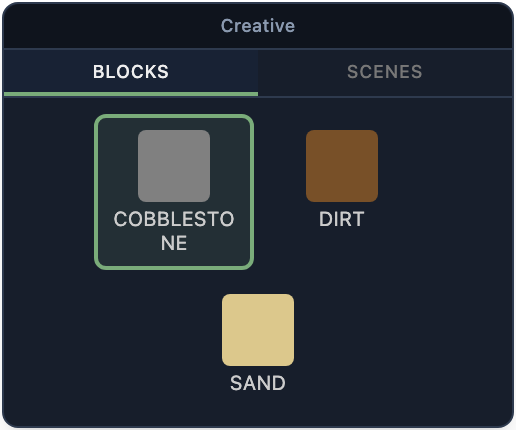
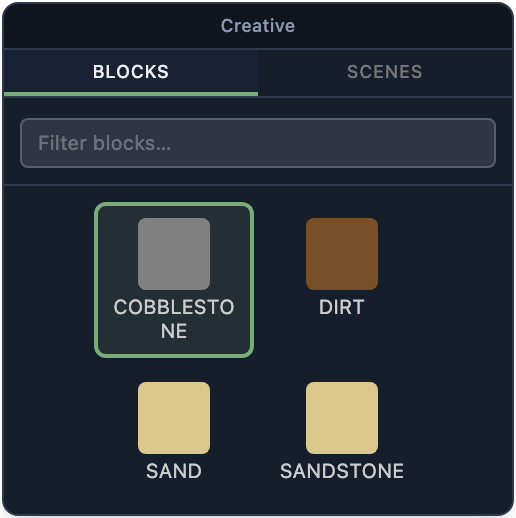
feat(webapp): filter input for the creative-mode block palette
Adds a text field above the Blocks tab of CreativeBlockPanel that filters
buildable items by name, with an empty-state message. New Storybook stories
cover the filtered and no-match cases.

diff --git a/app/webApp/ts-src/game/components/CreativeBlockPanel.tsx b/app/webApp/ts-src/game/components/CreativeBlockPanel.tsx
@@ -46,6 +46,7 @@ interface Props {
 export function CreativeBlockPanel({ visible, selectedItem, onSelectItem, selectedSceneId, onSelectScene }: Props) {
   const [pos, setPos] = useState(loadPanelPos);
   const [tab, setTab] = useState<CreativeTab>("blocks");
+  const [filter, setFilter] = useState("");
   const dragStateRef = useRef<{ startX: number; startY: number; startTop: number; startLeft: number } | null>(null);
   const defsReady = useBlockDefsReady();
   const getPreview = useBlockPreviews();
@@ -88,9 +89,11 @@ export function CreativeBlockPanel({ visible, selectedItem, onSelectItem, select
   const blocks: BlockEntry[] = (window.mcState.codexBlocks ?? []).map(
     (b: Omit<BlockEntry, "ordinal">, i: number) => ({ ...b, ordinal: i }) as BlockEntry,
   );
+  const query = filter.trim().toLowerCase();
   const items: ItemEntry[] = Object.entries(window.mcState.codexItems ?? {})
     .map(([name, info]: [string, unknown]) => ({ name, ...(info as Omit<ItemEntry, "name">) }))
     .filter((it: ItemEntry) => it.buildable)
+    .filter((it: ItemEntry) => !query || it.name.toLowerCase().includes(query))
     .sort((a: ItemEntry, b: ItemEntry) => a.name.localeCompare(b.name));
   const scenes: CreativeScene[] = [...(window.mcState.scenes ?? [])].sort((a, b) => a.name.localeCompare(b.name));
 
@@ -148,55 +151,70 @@ export function CreativeBlockPanel({ visible, selectedItem, onSelectItem, select
           ))}
         </div>
       ) : (
-        <div className="flex flex-wrap gap-1 p-2 overflow-y-auto max-h-[70vh] justify-center">
-          {items.map((item) => {
-            const linkedBlock = item.placesBlock ? blocks.find((b) => b.name === item.placesBlock) : null;
-            const preview = linkedBlock ? getPreview(linkedBlock.ordinal) : null;
-            return (
-              <CodexCard
-                key={item.name}
-                selected={selectedItem === item.name}
-                onClick={() => onSelectItem(item.name)}
-                title={item.name}
-                label={item.name.replace(/_/g, " ")}
-                width={80}
-                padding="6px 4px"
-                gap={2}
-                labelFontSize={10}
-                thumbnail={
-                  preview ? (
-                    <img
-                      alt="preview"
-                      src={preview}
-                      width={48}
-                      height={48}
-                      style={{ imageRendering: "pixelated", display: "block" }}
-                    />
-                  ) : linkedBlock && defsReady ? (
-                    <CssBlockCube ordinal={linkedBlock.ordinal} size={36} />
-                  ) : (
-                    <div
-                      style={{
-                        width: 36,
-                        height: 36,
-                        borderRadius: 4,
-                        background: linkedBlock
-                          ? `rgb(${linkedBlock.minimapColor[0]},${linkedBlock.minimapColor[1]},${linkedBlock.minimapColor[2]})`
-                          : "#6a5acd",
-                        display: "flex",
-                        alignItems: "center",
-                        justifyContent: "center",
-                        fontSize: 18,
-                      }}
-                    >
-                      {!linkedBlock ? "✦" : ""}
-                    </div>
-                  )
-                }
-              />
-            );
-          })}
-        </div>
+        <>
+          <div className="shrink-0 border-b border-[#2E3A4E] p-2">
+            <input
+              type="text"
+              placeholder="Filter blocks…"
+              value={filter}
+              onChange={(e) => setFilter(e.target.value)}
+              onMouseDown={(e) => e.stopPropagation()}
+              className="w-full rounded border border-white/20 bg-white/10 px-2 py-1 text-[10px] text-white placeholder:text-white/30 focus:border-white/50 focus:outline-none"
+            />
+          </div>
+          <div className="flex flex-wrap gap-1 p-2 overflow-y-auto max-h-[70vh] justify-center">
+            {items.length === 0 && (
+              <span className="text-[10px] text-[#666] px-1 py-2 text-center">No block matches</span>
+            )}
+            {items.map((item) => {
+              const linkedBlock = item.placesBlock ? blocks.find((b) => b.name === item.placesBlock) : null;
+              const preview = linkedBlock ? getPreview(linkedBlock.ordinal) : null;
+              return (
+                <CodexCard
+                  key={item.name}
+                  selected={selectedItem === item.name}
+                  onClick={() => onSelectItem(item.name)}
+                  title={item.name}
+                  label={item.name.replace(/_/g, " ")}
+                  width={80}
+                  padding="6px 4px"
+                  gap={2}
+                  labelFontSize={10}
+                  thumbnail={
+                    preview ? (
+                      <img
+                        alt="preview"
+                        src={preview}
+                        width={48}
+                        height={48}
+                        style={{ imageRendering: "pixelated", display: "block" }}
+                      />
+                    ) : linkedBlock && defsReady ? (
+                      <CssBlockCube ordinal={linkedBlock.ordinal} size={36} />
+                    ) : (
+                      <div
+                        style={{
+                          width: 36,
+                          height: 36,
+                          borderRadius: 4,
+                          background: linkedBlock
+                            ? `rgb(${linkedBlock.minimapColor[0]},${linkedBlock.minimapColor[1]},${linkedBlock.minimapColor[2]})`
+                            : "#6a5acd",
+                          display: "flex",
+                          alignItems: "center",
+                          justifyContent: "center",
+                          fontSize: 18,
+                        }}
+                      >
+                        {!linkedBlock ? "✦" : ""}
+                      </div>
+                    )
+                  }
+                />
+              );
+            })}
+          </div>
+        </>
       )}
     </div>
   );

diff --git a/app/webApp/ts-src/.stories/game/window/CreativeBlockPanel.stories.tsx b/app/webApp/ts-src/.stories/game/window/CreativeBlockPanel.stories.tsx
@@ -1,5 +1,6 @@
 import { useState } from "react";
 import type { Meta, StoryObj } from "@storybook/react";
+import { expect, userEvent, within } from "@storybook/test";
 import { CreativeBlockPanel } from "../../../game/components/CreativeBlockPanel";
 import { stubMcState } from "../../_support/mcState";
 
@@ -13,6 +14,7 @@ const codexItems = {
   COBBLESTONE: { buildable: true, placesBlock: "STONE" },
   DIRT: { buildable: true, placesBlock: "DIRT" },
   SAND: { buildable: true, placesBlock: "SAND" },
+  SANDSTONE: { buildable: true, placesBlock: "SAND" },
   FLINT: { buildable: false, placesBlock: null },
 };
 
@@ -46,6 +48,27 @@ function Harness() {
 }
 
 export const Blocks: Story = { render: () => <Harness /> };
+
+export const FilteredBlocks: Story = {
+  render: () => <Harness />,
+  play: async () => {
+    const body = within(document.body);
+    const input = body.getByPlaceholderText("Filter blocks…");
+    await userEvent.type(input, "sand", { pointerEventsCheck: 0 });
+    await expect(body.getByTitle("SAND")).toBeVisible();
+    await expect(body.getByTitle("SANDSTONE")).toBeVisible();
+    await expect(body.queryByTitle("COBBLESTONE")).toBeNull();
+  },
+};
+
+export const NoMatch: Story = {
+  render: () => <Harness />,
+  play: async () => {
+    const body = within(document.body);
+    await userEvent.type(body.getByPlaceholderText("Filter blocks…"), "zzz", { pointerEventsCheck: 0 });
+    await expect(body.getByText("No block matches")).toBeVisible();
+  },
+};
 
 export const Hidden: Story = {
   render: () => (
